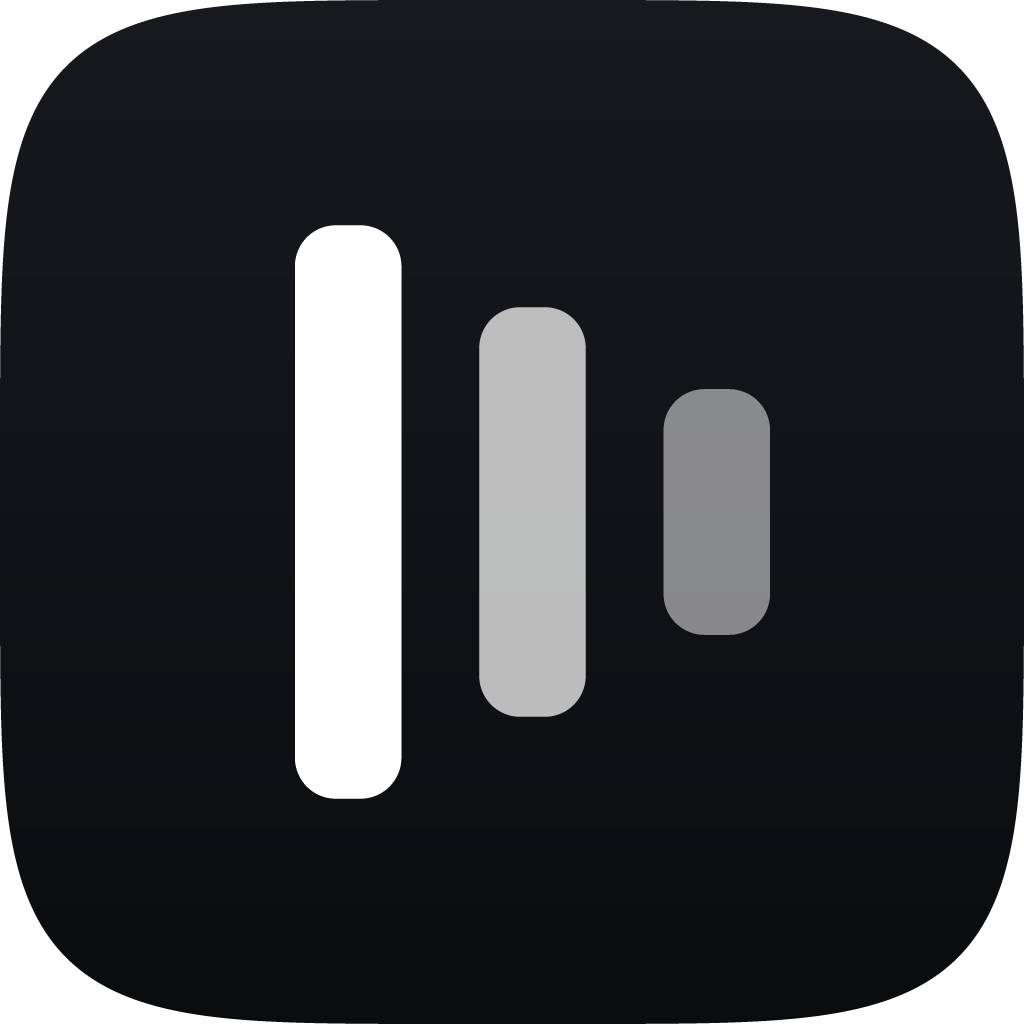
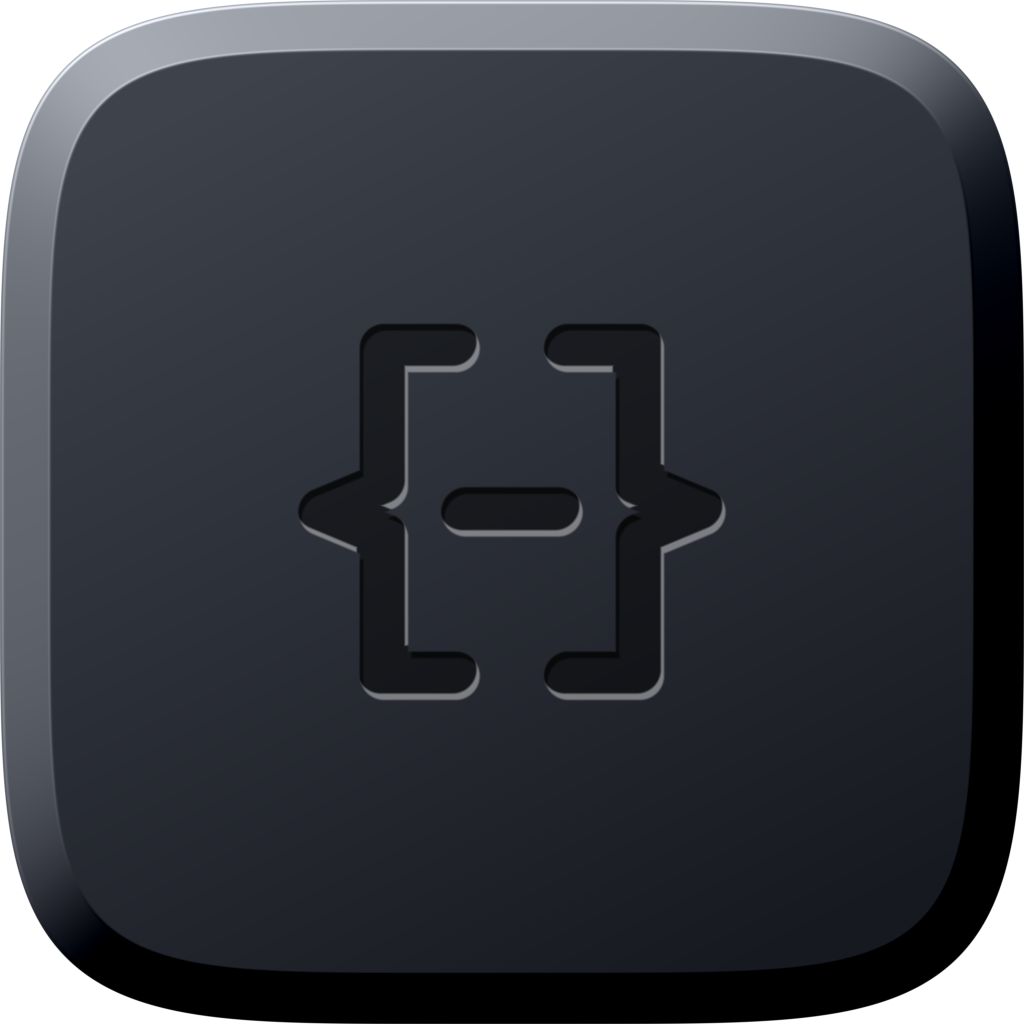
Carry the new mark to the web surfaces and the connector bundle
BrandGlyph becomes the mark alone in currentColor — braces and a dash, stroked,
no plate. Everywhere else the mark is engraved into a tile, but this one sits
inline at text size, where a plate would be a coloured chip mid-sentence and its
chamfer would be mud at 14px. Every other consumer in the app routes through
this component, so the rail, tray page, reader, draft editor, agent view and
setup wizard follow without edits.

The install hero rebuilds on the generated paths rather than a hand copy, and
its entrance changes with it: the old animation grew three rails upward out of
nothing, which a groove cannot do. It now seats slightly, as if being cut.

apps/mcpb/icon.png is the new 1024 raster, same dimensions as before.

Proof: `npm run lint` and `npm run build` in apps/web both exit 0, TypeScript
pass included, /install prerenders. No browser render yet.

diff --git a/apps/web/src/app/install/app-mark.tsx b/apps/web/src/app/install/app-mark.tsx
@@ -1,75 +1,78 @@
 /**
  * The app icon, drawn at hero size.
  *
- * Every number here is read off apps/desktop/scripts/make-icons.mjs: the same
- * superellipse plate, the same near-black vertical gradient, the same three
- * rails on a 14-unit grid at 56% of the plate. The page shows the icon the
- * visitor is about to have in their dock — a different-but-similar mark would
- * be a small lie on the one screen that has to be trusted.
+ * Every path here is generated from apps/desktop/scripts/lib/mark.mjs and
+ * copied out of the emitted apps/desktop/build/icon.svg — the plate, the
+ * chamfer inset, the two stroke copies that make the mark read as a groove. The
+ * page shows the icon the visitor is about to have in their dock, so a
+ * different-but-similar drawing would be a small lie on the one screen that has
+ * to be trusted. Re-run `npm run icons` and copy across if the mark moves.
  */
+
+/** |x/512|^5 + |y/512|^5 = 1, sampled at 96 points. n = 5 is the macOS shape. */
+const PLATE =
+  "M1024 512L1023.56 683.99L1022.24 738.75L1020.04 778.3L1016.95 810.17L1012.95 837.17L1008.04 860.66L1002.19 881.45L995.37 900.02L987.56 916.73L978.72 931.81L968.79 945.43L957.72 957.72L945.43 968.79L931.81 978.72L916.73 987.56L900.02 995.37L881.45 1002.19L860.66 1008.04L837.17 1012.95L810.17 1016.95L778.3 1020.04L738.75 1022.24L683.99 1023.56L512 1024L340.01 1023.56L285.25 1022.24L245.7 1020.04L213.83 1016.95L186.83 1012.95L163.34 1008.04L142.55 1002.19L123.98 995.37L107.27 987.56L92.19 978.72L78.57 968.79L66.28 957.72L55.21 945.43L45.28 931.81L36.44 916.73L28.63 900.02L21.81 881.45L15.96 860.66L11.05 837.17L7.05 810.17L3.96 778.3L1.76 738.75L0.44 683.99L0 512L0.44 340.01L1.76 285.25L3.96 245.7L7.05 213.83L11.05 186.83L15.96 163.34L21.81 142.55L28.63 123.98L36.44 107.27L45.28 92.19L55.21 78.57L66.28 66.28L78.57 55.21L92.19 45.28L107.27 36.44L123.98 28.63L142.55 21.81L163.34 15.96L186.83 11.05L213.83 7.05L245.7 3.96L285.25 1.76L340.01 0.44L512 0L683.99 0.44L738.75 1.76L778.3 3.96L810.17 7.05L837.17 11.05L860.66 15.96L881.45 21.81L900.02 28.63L916.73 36.44L931.81 45.28L945.43 55.21L957.72 66.28L968.79 78.57L978.72 92.19L987.56 107.27L995.37 123.98L1002.19 142.55L1008.04 163.34L1012.95 186.83L1016.95 213.83L1020.04 245.7L1022.24 285.25L1023.56 340.01Z";
+
+/** The chamfer: the same plate again, inset, over the face gradient. */
+const FACE_TRANSFORM = "translate(61.44 61.44) scale(0.88)";
 
 /**
- * |x/50|⁵ + |y/50|⁵ = 1, sampled at 72 points on a 100-unit box. n = 5 is the
- * macOS icon shape; a plain rounded rectangle turns its corners too late and
- * reads wrong beside real icons. Straight segments between samples deviate by
- * under 0.1 units — a tenth of a pixel at any size this is drawn.
+ * The groove. The mark is stroked twice — once offset down the light axis in a
+ * lighter ink, once in place in a darker one. The lighter copy shows only along
+ * the lower-right edge, which is the wall of the cut that turns into the light.
+ * Two paths standing in for the shader that renders the real icon.
  */
-const SQUIRCLE =
-  "M100.00 50.00L99.92 68.84L99.69 74.82L99.31 79.12L98.77 82.55L98.07 85.43L97.20 87.89L96.17 90.03L94.94 91.90L93.53 93.53L91.90 94.94L90.03 96.17L87.89 97.20L85.43 98.07L82.55 98.77L79.12 99.31L74.82 99.69L68.84 99.92L50.00 100.00L31.16 99.92L25.18 99.69L20.88 99.31L17.45 98.77L14.57 98.07L12.11 97.20L9.97 96.17L8.10 94.94L6.47 93.53L5.06 91.90L3.83 90.03L2.80 87.89L1.93 85.43L1.23 82.55L0.69 79.12L0.31 74.82L0.08 68.84L0.00 50.00L0.08 31.16L0.31 25.18L0.69 20.88L1.23 17.45L1.93 14.57L2.80 12.11L3.83 9.97L5.06 8.10L6.47 6.47L8.10 5.06L9.97 3.83L12.11 2.80L14.57 1.93L17.45 1.23L20.88 0.69L25.18 0.31L31.16 0.08L50.00 0.00L68.84 0.08L74.82 0.31L79.12 0.69L82.55 1.23L85.43 1.93L87.89 2.80L90.03 3.83L91.90 5.06L93.53 6.47L94.94 8.10L96.17 9.97L97.20 12.11L98.07 14.57L98.77 17.45L99.31 20.88L99.69 25.18L99.92 31.16Z";
+const HIGHLIGHT_TRANSFORM = "translate(4.7 11.3)";
 
-/** The 14-unit grid scaled to 56% of a 100-unit plate and centred. */
-const UNIT = (100 * 0.56) / 14;
-const ORIGIN = 50 - (14 * UNIT) / 2;
-
-const RAILS = [
-  { x: 1.7, y: 0, h: 14, alpha: 1, delay: 90 },
-  { x: 6.2, y: 2, h: 10, alpha: 0.72, delay: 160 },
-  { x: 10.7, y: 4, h: 6, alpha: 0.5, delay: 230 },
+const MARK = [
+  { d: "M455.68 348.16L384 348.16L384 486.4L322.56 512L384 537.6L384 675.84L455.68 675.84", w: 48.13 },
+  { d: "M568.32 348.16L640 348.16L640 486.4L701.44 512L640 537.6L640 675.84L568.32 675.84", w: 48.13 },
+  { d: "M465.92 512L558.08 512", w: 49.15 },
 ] as const;
+
+function Mark({ stroke, opacity }: { stroke: string; opacity?: number }) {
+  return (
+    <g fill="none" stroke={stroke} strokeOpacity={opacity} strokeLinecap="round" strokeLinejoin="round">
+      {MARK.map((p) => (
+        <path key={p.d} d={p.d} strokeWidth={p.w} />
+      ))}
+    </g>
+  );
+}
 
 export function AppMark({ size = 88 }: { size?: number }) {
   return (
     <svg
       width={size}
       height={size}
-      viewBox="0 0 100 100"
+      viewBox="0 0 1024 1024"
       role="img"
       aria-label="The mailmux app icon"
       className="shrink-0"
     >
       <defs>
-        <linearGradient id="mailmux-plate" x1="0" y1="0" x2="0" y2="1">
-          <stop offset="0" stopColor="#18191d" />
-          <stop offset="1" stopColor="#0b0c0e" />
+        <linearGradient id="mailmux-chamfer" x1="0" y1="0" x2="1" y2="1">
+          <stop offset="0" stopColor="#8d949f" />
+          <stop offset="0.55" stopColor="#2a2e35" />
+          <stop offset="1" stopColor="#0d0e12" />
+        </linearGradient>
+        <linearGradient id="mailmux-face" x1="0.12" y1="0" x2="0.88" y2="1">
+          <stop offset="0" stopColor="#454a55" />
+          <stop offset="1" stopColor="#171920" />
         </linearGradient>
       </defs>
 
-      <path d={SQUIRCLE} fill="url(#mailmux-plate)" />
-      {/* The plate is near-black in both themes, as the real icon is. On the
-          dark surface it would otherwise dissolve into the page, so it keeps
-          the same hairline the dock gives it. */}
-      <path
-        d={SQUIRCLE}
-        fill="none"
-        stroke="#ffffff"
-        strokeOpacity="0.09"
-        strokeWidth="1"
-      />
+      <path d={PLATE} fill="url(#mailmux-chamfer)" />
+      <g transform={FACE_TRANSFORM}>
+        <path d={PLATE} fill="url(#mailmux-face)" />
+      </g>
 
-      {RAILS.map((rail) => (
-        <rect
-          key={rail.x}
-          className="mailmux-mark-rail"
-          style={{ animationDelay: `${rail.delay}ms` }}
-          x={ORIGIN + rail.x * UNIT}
-          y={ORIGIN + rail.y * UNIT}
-          width={2.6 * UNIT}
-          height={rail.h * UNIT}
-          rx={1.3 * UNIT}
-          fill="#ffffff"
-          fillOpacity={rail.alpha}
-        />
-      ))}
+      <g className="mailmux-mark-engrave">
+        <g transform={HIGHLIGHT_TRANSFORM}>
+          <Mark stroke="#79808c" opacity={0.6} />
+        </g>
+        <Mark stroke="#0f1116" />
+      </g>
     </svg>
   );
 }

diff --git a/apps/web/src/components/atoms.tsx b/apps/web/src/components/atoms.tsx
@@ -109,13 +109,16 @@ export function SectionLabel({
 }
 
 /**
- * The brand mark: three rails of falling height — many mailboxes, one inbox.
- * Monochrome — it takes the ink colour of whatever it sits in, so it never
- * introduces a hue.
+ * The brand mark: braces with one line of mail inside them.
  *
- * The geometry is shared with two files that cannot import it: the desktop app
- * icon (apps/desktop/scripts/make-icons.mjs, which rasterises it) and
- * public/favicon.svg. Change one, change all three.
+ * The mark alone, with no plate. Everywhere else it is engraved into a machined
+ * tile, but this one sits inline at text size and takes the ink colour of what
+ * surrounds it — a plate here would be a coloured chip mid-sentence, and its
+ * chamfer would be mud at 14px.
+ *
+ * The path data is generated from apps/desktop/scripts/lib/mark.mjs, which is
+ * the one definition of the mark. Do not nudge these numbers by hand; change
+ * the geometry there and re-emit.
  */
 export function BrandGlyph({
   size = 14,
@@ -128,14 +131,23 @@ export function BrandGlyph({
     <svg
       width={size}
       height={size}
-      viewBox="0 0 14 14"
+      viewBox="0 0 24 24"
       aria-hidden="true"
       className={cn("shrink-0", className)}
-      fill="currentColor"
+      fill="none"
+      stroke="currentColor"
+      strokeLinecap="round"
+      strokeLinejoin="round"
     >
-      <rect x="1.7" y="0" width="2.6" height="14" rx="1.3" />
-      <rect x="6.2" y="2" width="2.6" height="10" rx="1.3" opacity="0.72" />
-      <rect x="10.7" y="4" width="2.6" height="6" rx="1.3" opacity="0.5" />
+      <path
+        d="M10.55 7.78L8.7 7.78L8.7 11.34L7.12 12L8.7 12.66L8.7 16.22L10.55 16.22"
+        strokeWidth={1.24}
+      />
+      <path
+        d="M13.45 7.78L15.3 7.78L15.3 11.34L16.88 12L15.3 12.66L15.3 16.22L13.45 16.22"
+        strokeWidth={1.24}
+      />
+      <path d="M10.81 12L13.19 12" strokeWidth={1.27} />
     </svg>
   );
 }

diff --git a/apps/web/src/app/install/install.css b/apps/web/src/app/install/install.css
@@ -8,7 +8,7 @@
  * page is looked at once, for three seconds, and is allowed one moment.
  *
  * prefers-reduced-motion is handled globally in globals.css, which drops every
- * animation to 0.01ms. `both` keeps the rails at their end state when it does.
+ * animation to 0.01ms. `both` keeps every element at its end state when it does.
  */
 
 /* ---------------------------------------------------------------------------
@@ -141,25 +141,25 @@
   filter: drop-shadow(0 14px 34px rgb(0 0 0 / 0.60));
 }
 
-/* The three rails settle into their heights. Same geometry as
-   apps/desktop/scripts/make-icons.mjs, so this is the icon the visitor is about
-   to have in their dock, not a decoration that resembles it. */
-@keyframes mailmux-mark-rail {
+/* The mark settles into the plate, as if it were being cut. It starts a little
+   large and slightly transparent, then seats — the opposite of the old rails,
+   which grew upward out of nothing. A groove cannot grow; it can only deepen. */
+@keyframes mailmux-mark-engrave {
   from {
     opacity: 0;
-    transform: scaleY(0.28);
+    transform: scale(1.06);
   }
   to {
     opacity: 1;
-    transform: scaleY(1);
+    transform: scale(1);
   }
 }
 
-.mailmux-mark-rail {
-  /* An SVG element has no CSS box, so a percentage transform-origin resolves
+.mailmux-mark-engrave {
+  /* An SVG group has no CSS box, so a percentage transform-origin resolves
      against the viewport box unless fill-box says otherwise — without this the
-     rails scale from a point outside the plate. */
+     mark scales from a point outside the plate. */
   transform-box: fill-box;
   transform-origin: center;
-  animation: mailmux-mark-rail 520ms var(--ease-out-expo) both;
+  animation: mailmux-mark-engrave 520ms var(--ease-out-expo) both;
 }
